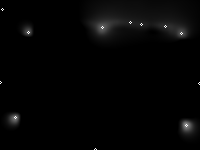
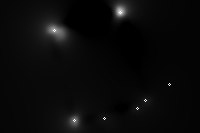
pulling

diff --git a/gui/centralwidget/ButtonPanel.java b/gui/centralwidget/ButtonPanel.java
@@ -12,6 +12,8 @@ import javax.swing.JLabel;
 import javax.swing.JPanel;
 import javax.swing.JSlider;
 import javax.swing.SwingConstants;
+import javax.swing.event.ChangeEvent;
+import javax.swing.event.ChangeListener;
 
 import core.Parameters;
 
@@ -63,6 +65,11 @@ public class ButtonPanel extends JPanel {
 	 * Reference to the central panel.
 	 */
 	private CentralPanel centralPanel;
+	
+	/**
+	 * The temperature slider;
+	 */
+	private JSlider temperatureSlider;
 	
 	/****************************************
 	 * 
@@ -116,9 +123,23 @@ public class ButtonPanel extends JPanel {
 		this.add(temperatureLabel);
 		this.controls.add(temperatureLabel);
 		
-		JSlider temperatureSlider = new JSlider();
-		this.add(temperatureSlider);
-		this.controls.add(temperatureSlider);
+		this.temperatureSlider = new JSlider(JSlider.HORIZONTAL,-50, 50, 5);
+		this.temperatureSlider.addChangeListener(new TempListener());
+		this.add(this.temperatureSlider);
+		this.controls.add(this.temperatureSlider);
+	}
+	
+	/**
+	 * Implementation of a ChangeListener for the 
+	 * temperature slider.
+	 */
+	private class TempListener implements ChangeListener {
+
+		@Override
+		public void stateChanged(ChangeEvent arg0) {
+			Parameters.getCoreManager().changeTemperature(temperatureSlider.getValue());
+		}
+		
 	}
 	
 	/****************************************

diff --git a/core/core/SystemConfiguration.java b/core/core/SystemConfiguration.java
@@ -15,7 +15,7 @@ public class SystemConfiguration {
 	 * functionality. Useful for development, or when
 	 * working on a machine without openCV installed.
 	 */
-	public static boolean OPENCV_ENABLED = false;
+	public static boolean OPENCV_ENABLED = true;
 	
 	/**
 	 * Whether tesseract and OCR functionality is
@@ -103,7 +103,6 @@ public class SystemConfiguration {
 			} catch (NullPointerException e) {}
 			
 		}
-
 	}
 
 }

diff --git a/core/core/CoreManager.java b/core/core/CoreManager.java
@@ -657,7 +657,7 @@ public class CoreManager {
 		}
 	}
 
-	/*
+	/**
 	 * Given a temperature (centered around 0, e.g. -50 to 50), adjust the image.
 	 */
 	public void changeTemperature(int temperature){

diff --git a/managers/ocr/ocrManager.java b/managers/ocr/ocrManager.java
@@ -99,6 +99,5 @@ public class ocrManager {
 		for (Position p : pt.positions()) {
 			System.out.println(p.xmin()+" "+p.ymin()+" : "+p.word());
 		}
-
 	} 
 }
